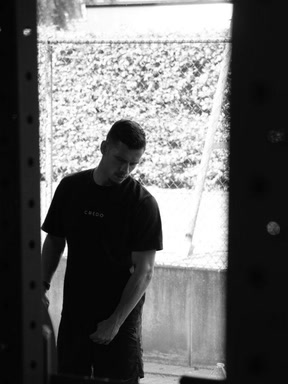
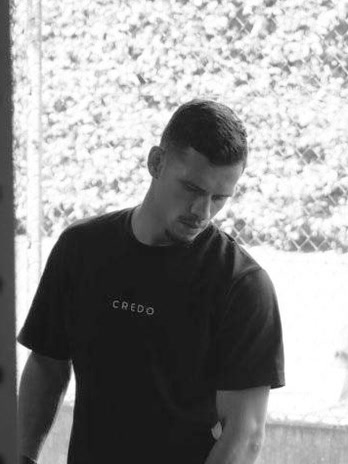
Recensenten beter gesneden, en de banen krijgen hun kijkrand terug
De drie portretten stonden te ruim in het kader. Op tachtig pixels breed
werd elke figuur een donkere vlek in een zaal; nu staat het hoofd op
ongeveer een derde van boven, met schouders erbij en verder niets.
Michiel staat tegen het raam in en kwam als silhouet uit de camera, dus
zijn schaduwen zijn zacht opgelicht; de hooglichten bleven staan.

De kaarten in de recensies zijn naast elkaar nu even hoog, met de naam
onderaan uitgelijnd in plaats van vlak onder de tekst. Dat was eerder
rafelig omdat de drie teksten sterk in lengte verschillen.

Binnen een baan geldt het omgekeerde: daar zie je er een tegelijk, en
dan gaf even hoog de korte recensie een handbreed leegte binnen zijn
eigen rand. In een baan is elke kaart dus zo hoog als hij zelf is.

De kaartbreedte stond op een deel van het scherm. De baan bij de
waarden zit binnen een kader met eigen binnenmarge, en daar werd een
kaart daardoor breder dan de ruimte die hij had: de volgende stak niet
meer uit, en juist dat stukje is de uitnodiging om te vegen. De breedte
staat nu op een deel van de baan zelf, zodat de kijkrand overal gelijk
is.

Claude-Session: https://claude.ai/code/session_019DifeqnGhQgQJH4E67en8R

diff --git a/performance/index.html b/performance/index.html
@@ -837,37 +837,37 @@
       </p>
     </div>
 
-    <ul class="gsm-rail grid gap-6 md:grid-cols-3 md:items-start">
-      <li class="frame-light p-6 md:p-8 reveal reveal-fly">
+    <ul class="gsm-rail grid gap-6 md:grid-cols-3">
+      <li class="frame-light p-6 md:p-8 reveal reveal-fly flex flex-col">
         <p class="display text-[clamp(1.05rem,1.6vw,1.35rem)] leading-[1.25] text-ink">
           Al vier jaar werk ik samen met Credo en ik voel me er perfect ondersteund. Zowel bij het herstellen van blessures als in het verbeteren van mijn fysieke prestaties. De combinatie van expertise, persoonlijke begeleiding en performancegericht werken maakt voor mij het verschil. Ik weet dat ik hier omringd ben door mensen die het beste uit mij willen halen.
         </p>
-        <div class="mt-6 flex items-center gap-4">
+        <div class="mt-auto pt-7 flex items-center gap-4">
           <img src="../assets/img/reviews/michiel.jpg" alt="Michiel Partoens tijdens een sessie in de zaal."
-               class="photo w-[68px] h-[91px] flex-none" loading="lazy" decoding="async">
+               class="photo w-[80px] h-[107px] flex-none" loading="lazy" decoding="async">
           <p class="eyebrow text-ink/45">Michiel Partoens &middot; profbokser</p>
         </div>
       </li>
-      <li class="frame-light p-6 md:p-8 reveal reveal-fly reveal-d2">
+      <li class="frame-light p-6 md:p-8 reveal reveal-fly reveal-d2 flex flex-col">
         <p class="display text-[clamp(1.05rem,1.6vw,1.35rem)] leading-[1.25] text-ink">
           Ik werk ondertussen al enkele jaren samen met Credo en merk echt hoeveel ik fysiek ben vooruitgegaan. Ik ben sterker geworden in de duels en ook mijn topsnelheid is sterk verbeterd. Ik voel dat ik dankzij de begeleiding van Credo fysiek steeds beter voorbereid ben om op het hoogste niveau te presteren.
         </p>
-        <div class="mt-6 flex items-center gap-4">
+        <div class="mt-auto pt-7 flex items-center gap-4">
           <img src="../assets/img/reviews/luna.jpg" alt="Luna Vanzeir onder de stang in het rek."
-               class="photo w-[68px] h-[91px] flex-none" loading="lazy" decoding="async">
+               class="photo w-[80px] h-[107px] flex-none" loading="lazy" decoding="async">
           <p class="eyebrow text-ink/45">Luna Vanzeir &middot; Red Flames</p>
         </div>
       </li>
-      <li class="frame-light p-6 md:p-8 reveal reveal-fly reveal-d4">
+      <li class="frame-light p-6 md:p-8 reveal reveal-fly reveal-d4 flex flex-col">
         <p class="display text-[clamp(1.05rem,1.6vw,1.35rem)] leading-[1.25] text-ink">
           Ik kom al een tijdje bij Credo, zowel voor blessures als om sterker en belastbaarder te worden. Ik heb er in het verleden onder andere goed kunnen herstellen van een stressfractuur, telkens met een persoonlijke begeleiding die verder kijkt dan alleen de blessure, in functie van je trainingen, doelen en hoe je lichaam reageert.
         </p>
         <p class="display text-[clamp(1.05rem,1.6vw,1.35rem)] leading-[1.25] text-ink mt-4">
           Wat ik ook fijn vind, is de sfeer: sport leeft er echt, van professionele sporters tot recreanten. Die omgeving werkt aanstekelijk en motiveert. Een plek waar ik me goed voel en waar ik altijd met veel vertrouwen terechtkan. Zeker een aanrader.
         </p>
-        <div class="mt-6 flex items-center gap-4">
+        <div class="mt-auto pt-7 flex items-center gap-4">
           <img src="../assets/img/reviews/valerie.jpg" alt="Val&eacute;rie Vandecaetsbeek duwt de slee."
-               class="photo w-[68px] h-[91px] flex-none" loading="lazy" decoding="async">
+               class="photo w-[80px] h-[107px] flex-none" loading="lazy" decoding="async">
           <p class="eyebrow text-ink/45">Val&eacute;rie Vandecaetsbeek &middot; Run&amp;Roast Hasselt</p>
         </div>
       </li>

diff --git a/assets/css/credo.css b/assets/css/credo.css
@@ -874,6 +874,12 @@
      de pagina dan dit bestand, dus zonder extra zwaarte wint grid. */
   body .gsm-rail {
     display: flex;
+    /* Naast elkaar in kolommen is even hoog netjes, want je ziet de drie
+       tegelijk. In een baan zie je er een, en dan is even hoog juist lelijk:
+       de kortste recensie kreeg de hoogte van de langste en stond met een
+       handbreed leegte binnen zijn eigen rand. Elke kaart zo hoog als hij
+       zelf is. */
+    align-items: flex-start;
     gap: 1rem;
     overflow-x: auto;
     overscroll-behavior-x: contain;
@@ -892,9 +898,15 @@
     -webkit-overflow-scrolling: touch;
   }
   body .gsm-rail::-webkit-scrollbar { display: none; }
+  /* De breedte staat op een deel van de baan zelf, niet op een deel van het
+     scherm. De baan bij de waarden zit namelijk binnen een kader met eigen
+     binnenmarge; op 78vw werd een kaart daar breder dan de ruimte die hij had
+     en stak de volgende niet meer uit. Op 86 procent blijft er overal een
+     zelfde stuk van de volgende kaart staan, en dat stuk is de uitnodiging
+     om te vegen. */
   body .gsm-rail > * {
     flex: none;
-    width: 78vw;
+    width: 86%;
     max-width: 320px;
     scroll-snap-align: start;
   }
